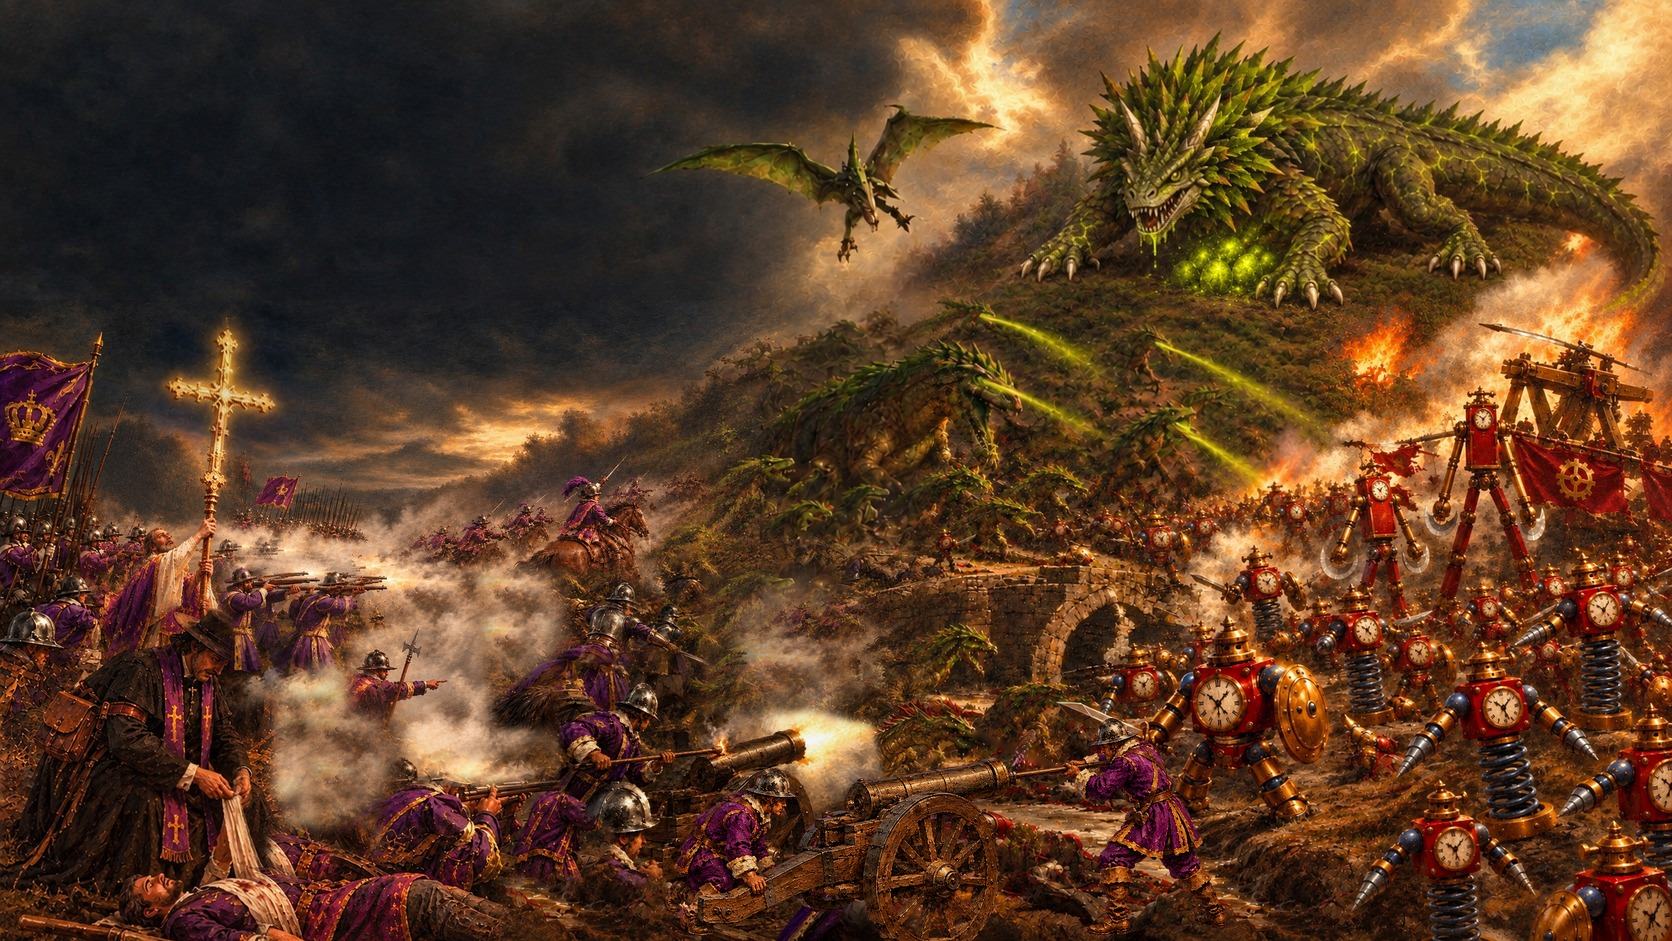
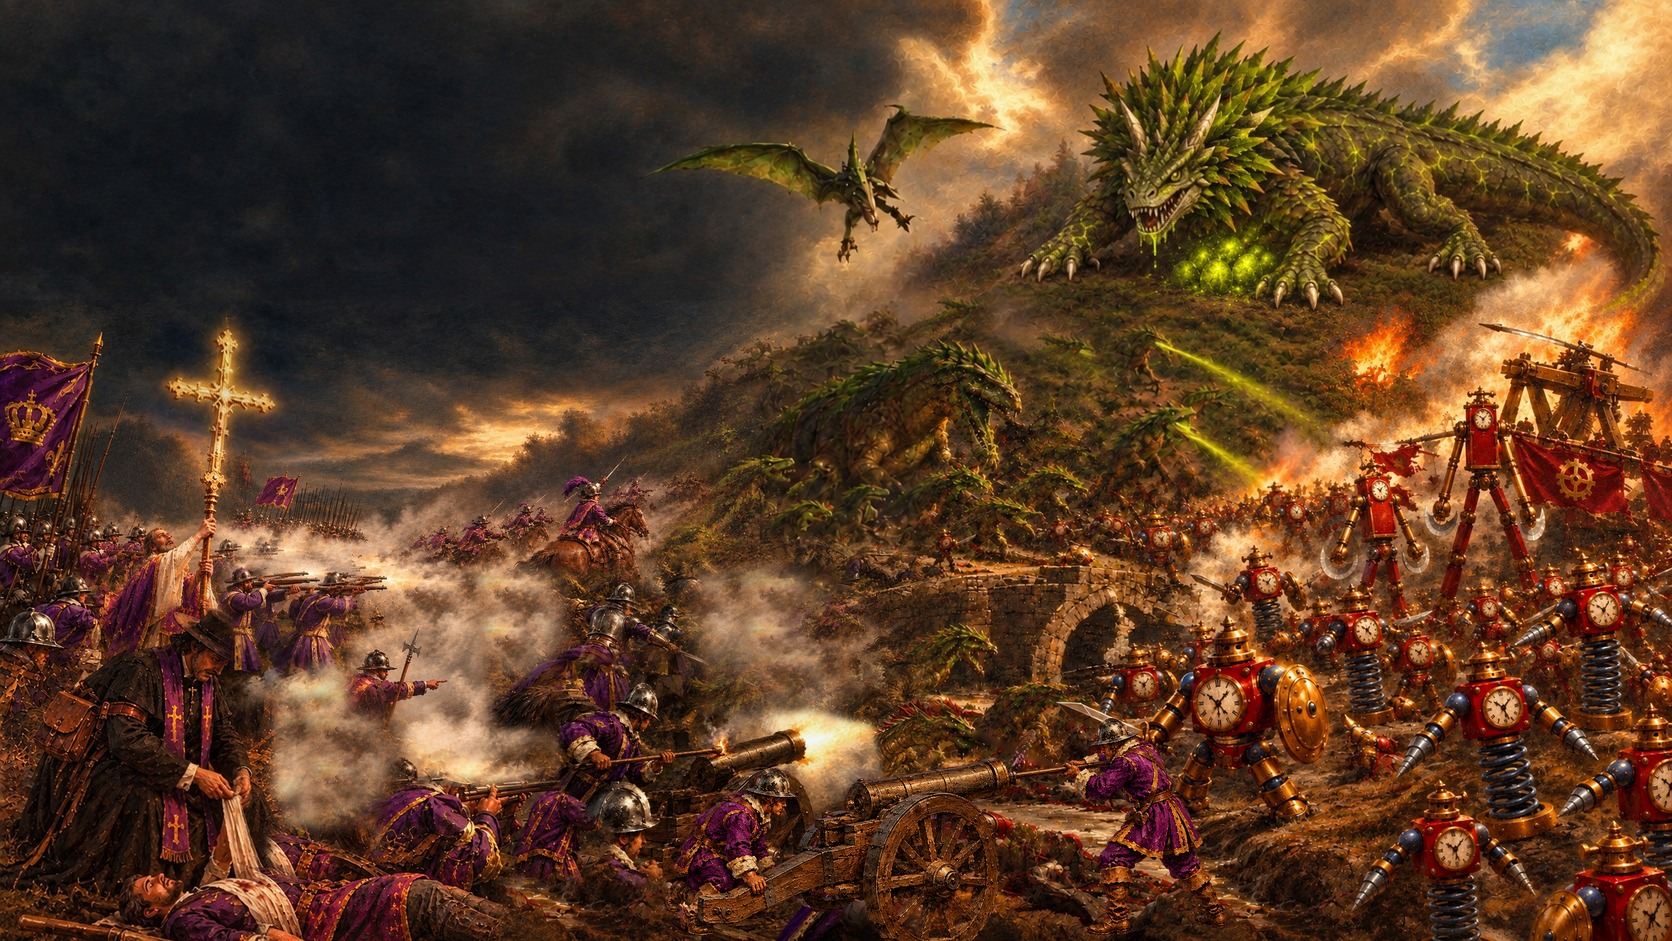
0.34.6: menu painting: no venom from the Venom Sire's eye, no jet from a fern, one more copied Brood head under the dust
Claude-Session: https://claude.ai/code/session_01NtmEZhP1uA8k4DLQ7BYfMz

Changed region(s): [[0.4043, 0.5855, 0.4976, 0.7088], [0.5598, 0.3082, 0.6531, 0.4623]]

diff --git a/README.md b/README.md
@@ -2,7 +2,7 @@
 
 *(a working title: the game was called Holdfast until October 2026, but that name belongs to another game; the web address, the app file and the repository keep the old name for now so links and installs keep working)*
 
-**Play in your browser (version 0.34.5): https://holdfastrts.github.io/Holdfast/**
+**Play in your browser (version 0.34.6): https://holdfastrts.github.io/Holdfast/**
 
 **Windows program: https://holdfastrts.github.io/Holdfast/Holdfast_windows.zip** (rebuilt on every push; unzip it and run Holdfast.exe; if Windows warns "Windows protected your PC", click More info, then Run anyway)
 
